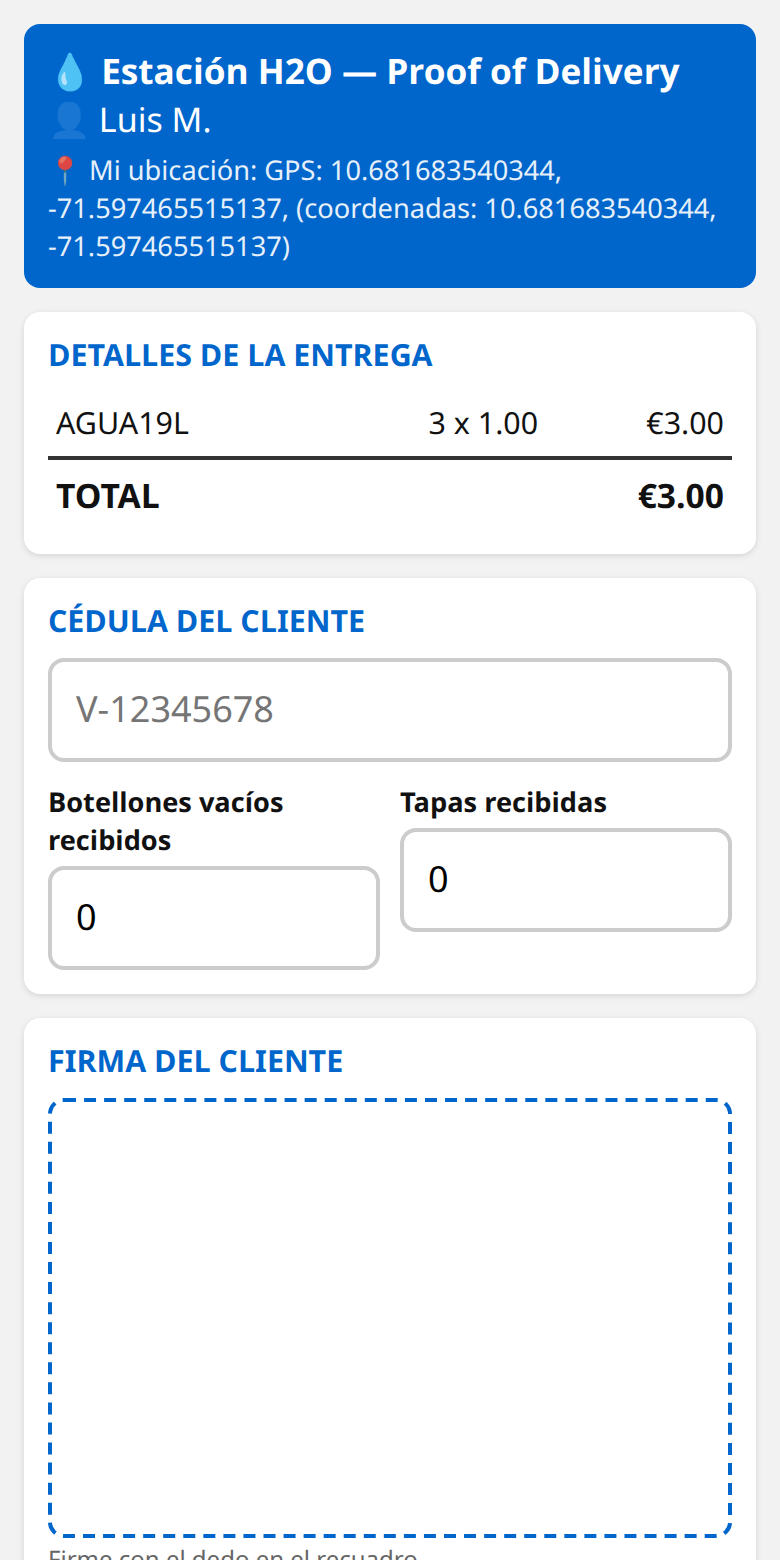
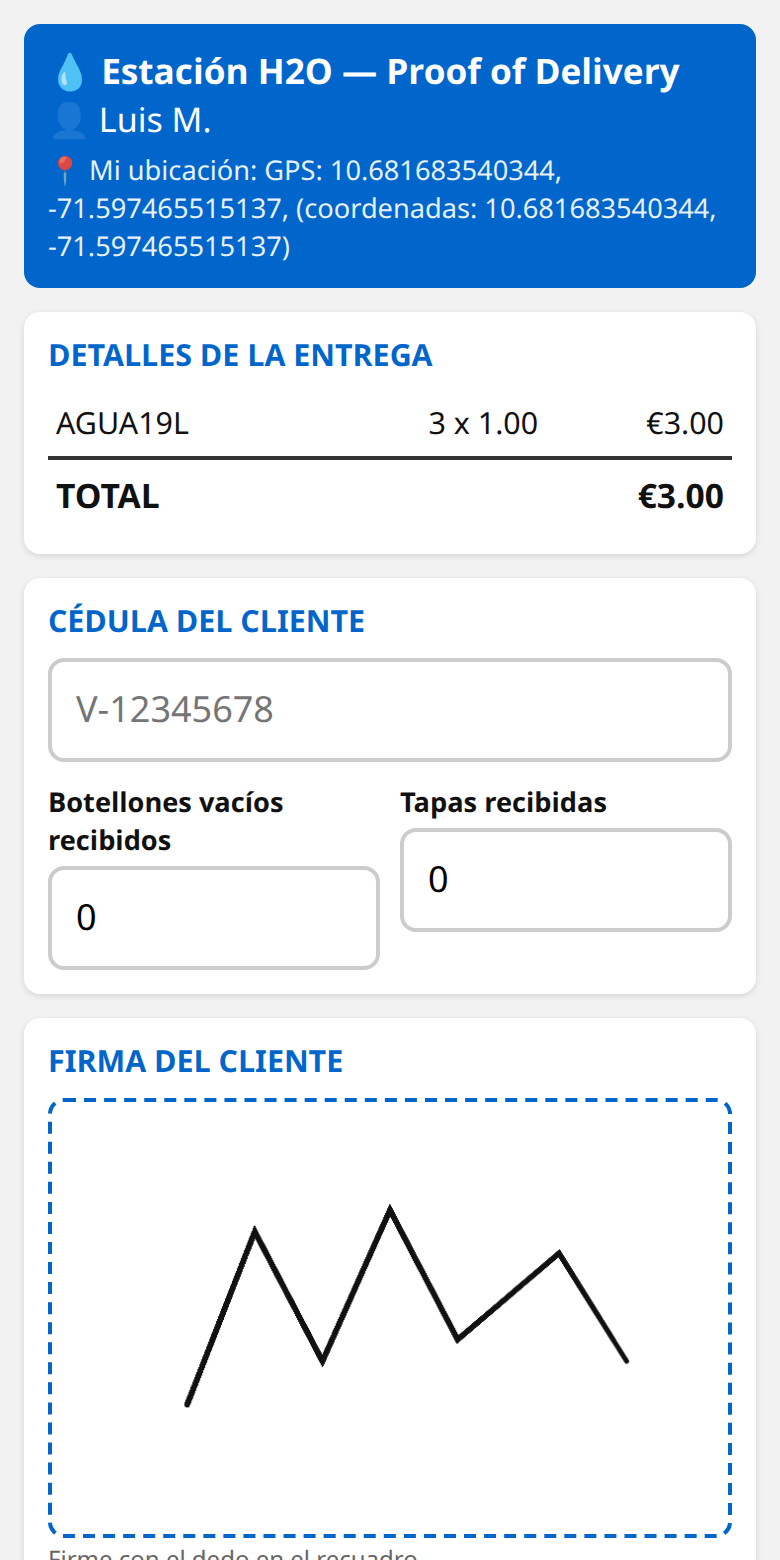
snapshot: 20260927_163401

diff --git a/web/pod_form.html b/web/pod_form.html
@@ -173,6 +173,9 @@ function pedirPin() {
         $('pin-overlay').style.display = 'none';
         $('app').style.display = 'block';
         cargarDatos();
+        // FIX Bloque capturas: el canvas se ajustó en 'load' cuando la app
+        // estaba oculta (width=0). Re-disparar el ajuste ahora que es visible.
+        window.dispatchEvent(new Event('resize'));
       } else if (r.status === 401) {
         pinFails++;
         $('pin-err').textContent = `PIN incorrecto (${pinFails}/3)`;

diff --git a/dev/capturas_pwa.py b/dev/capturas_pwa.py
@@ -40,7 +40,6 @@ with sync_playwright() as pw:
     assert box, "canvas no encontrado"
     # Dibujo con el "dedo" (touch): curva tipo firma
     cx, cy = box["x"] + box["width"] / 2, box["y"] + box["height"] / 2
-    page.touchscreen.tap(cx, cy)
     # Pointer events: simular trazos
     points = [(0.2, 0.7), (0.3, 0.3), (0.4, 0.6), (0.5, 0.25), (0.6, 0.55), (0.75, 0.35), (0.85, 0.6)]
     prev = None
@@ -59,13 +58,19 @@ with sync_playwright() as pw:
         prev = (x, y)
     page.mouse.up()
     page.wait_for_timeout(300)
+    # verificar que la firma efectivamente dibujó algo
+    has_draw = page.evaluate(
+        "() => { const c=document.getElementById('canvas'); const d=c.getContext('2d').getImageData(0,0,c.width,c.height).data; for (let i=3;i<d.length;i+=4) if (d[i]>0) return true; return false; }"
+    )
+    assert has_draw, "el canvas quedo vacio — la firma no se dibujo"
     page.screenshot(path=f"{OUT}/pod_03_firma.png")
-    print("CAPTURE_3_FIRMA_OK")
+    print("CAPTURE_3_FIRMA_OK (con trazo real verificado)")
 
     # d) Llenar cédula y confirmar → pantalla de éxito
     page.fill("#cedula", "V-12345678")
     page.fill("#vacios", "3")
     page.fill("#tapas", "1")
+    page.locator("#btn-confirmar").scroll_into_view_if_needed()
     with page.expect_response(lambda r: "/api/pod/submit" in r.url, timeout=10000) as resp_info:
         page.click("#btn-confirmar")
     assert resp_info.value.ok, "submit falló"
